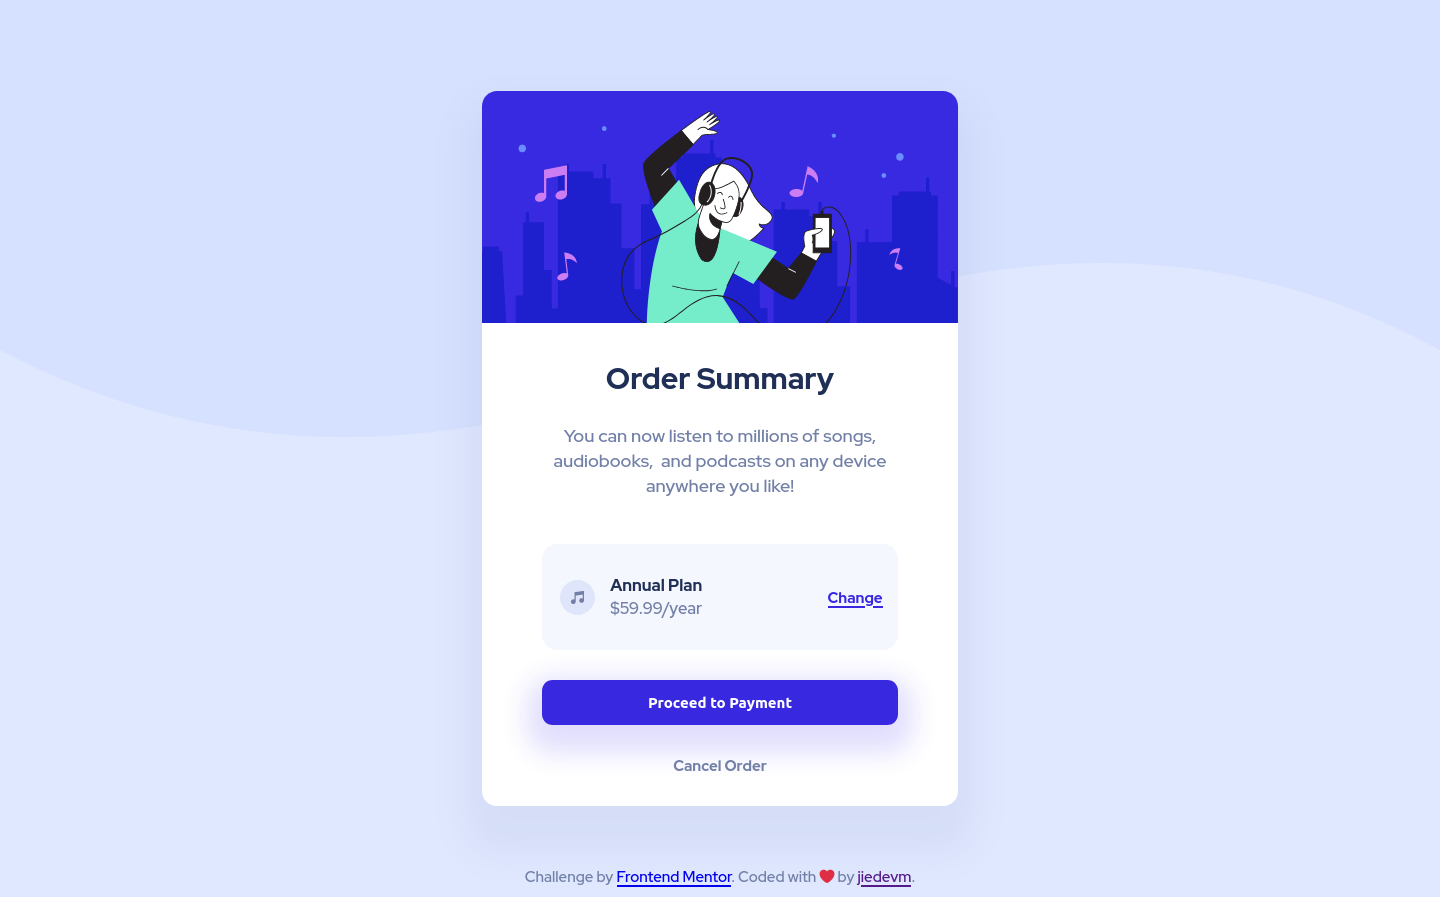
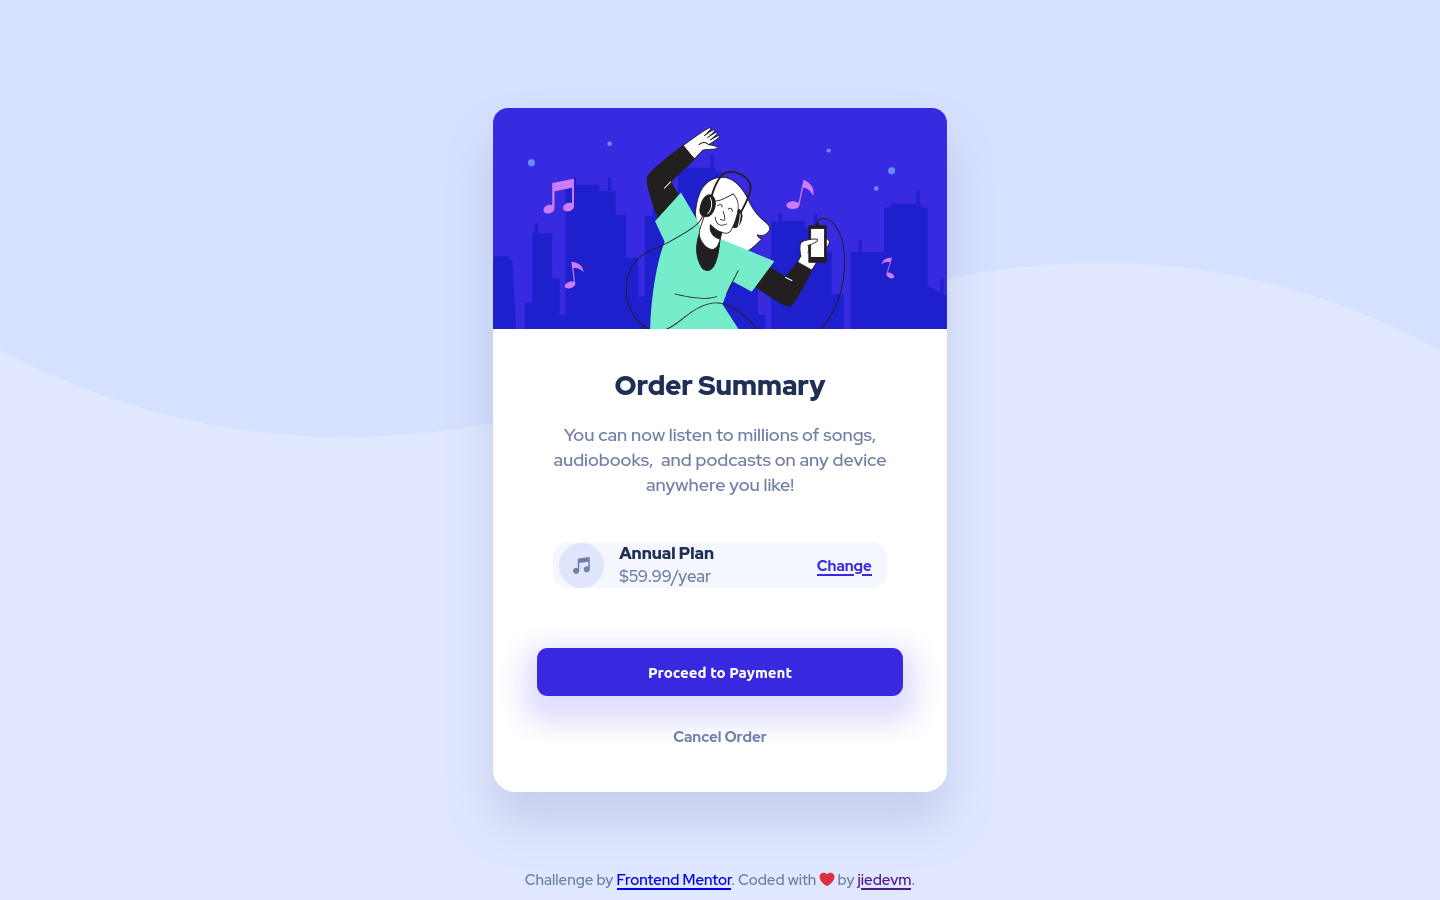
display (size, padding and margin) fixings

diff --git a/index.css b/index.css
@@ -29,6 +29,7 @@ body {
     display: flex;
     justify-content: center;
     align-items: center;
+    flex-direction: column;
 }
 
 body::before {
@@ -45,12 +46,12 @@ body::before {
 }
 
 .card {
-    border-radius: 1rem;
+    border-radius: 1.5rem;
     background: white;
-    width: 33%;
+    width: 31.5%;
     position: relative;
-    -webkit-box-shadow: 0 30px 35px 15px rgba(0, 128, 114, 176.1);
-    box-shadow: 0 30px 35px 15px rgba(114, 128, 176,0.1);
+    -webkit-box-shadow: 0 30px 45px 0 rgba(114, 128, 176, 0.25);
+    box-shadow: 0 30px 45px 0 rgba(114, 128, 176, 0.25);
 }
 
 .card-body {
@@ -68,8 +69,9 @@ body::before {
 
 .card-title {
     color: var(--dark-blue);
-    font-size: 2rem;
-    margin: 0.5em 0;
+    font-size: 1.8rem;
+    font-weight: 900;
+    text-align: center;
 }
 
 .card-text {
@@ -77,17 +79,17 @@ body::before {
     color: var(--desaturated-blue);
     font-weight: lighter;
     font-size: 1.2rem;
-    margin: 0.5em 0;
+    margin: 0;
 }
 
 .card-body #plan {
     display: grid;
     grid-template-columns: 50% 50%;
     width: 100%;
-    margin-top: 2.5em;
+    margin: 3em 0;
     background-color: var(--very-pale-blue);
-    padding: 2em 0;
     border-radius: 1rem;
+    padding: 1.5em 1.5em;
 }
 
 #plan-price {
@@ -102,10 +104,11 @@ body::before {
     margin-left: 1em;
 }
 
-#plan-price div h6 {
+#plan-price div h2 {
     margin: 0;
     font-size: 1.1rem;
     color: var(--dark-blue);
+    font-weight: 800;
 }
 
 #plan-price div p {
@@ -125,8 +128,8 @@ body::before {
     text-align: end;
     display: inline-block;
     color: var(--bright-blue);
-    font-size: 1rem;
-    font-weight: bold;
+    font-size: 0.9rem;
+    font-weight: 700;
     margin: auto;
 }
 
@@ -140,22 +143,24 @@ body::before {
     display: flex;
     align-items: center;
     flex-direction: column;
+    margin: 1em 0;
 }
 
 #actions button {
-    width: 100%;
-    height: 3em;
+    width: 110%;
+    height: 3.2em;
     display: block;
     border-radius: 0.7rem;
     color: white;
     background-color: var(--bright-blue);
     font-size: 1rem;
-    font-weight: bold;
+    font-weight: 700;
     border-width: 0;
-    margin: 2em 0;
+    margin-bottom: 2em;
     cursor: pointer;
     -webkit-box-shadow: 0 13px 25px 15px rgba(56, 41, 244, 0.15);
     box-shadow: 0 13px 25px 15px rgba(56, 41, 244, 0.15);
+    padding: 0 1em;
 }
 
 #actions a {
@@ -170,9 +175,10 @@ body::before {
 }
 
 .attribution {
-    position: absolute;
-    bottom: 10px;
+    position: relative;
     color: var(--desaturated-blue);
+    text-align: center;
+    margin: 2em;
 }
 
 @media (max-width: 1200px) {
@@ -207,7 +213,7 @@ body::before {
         font-size: 1rem;
     }
 
-    #plan-price div p, #plan-price div h6 {
+    #plan-price div p, #plan-price div h2 {
         font-size: 1rem;
     }
 
@@ -230,15 +236,27 @@ body::before {
         margin: 0 1.5em;
     }
 
+    .card-body {
+        padding: 1em 2.5em 2em;
+    }
+
     .card-title {
-        font-size: 1.1rem;
+        font-size: 1.5rem;
     }
 
     .card-text {
         font-size: 0.85rem;
     }
 
-    #plan-price div p, #plan-price div h6 {
+    #plan #plan-price {
+        width: 125%;
+    }
+
+    #plan div a {
+        font-size: 0.8rem;
+    }
+
+    #plan-price div p, #plan-price div h2 {
         font-size: 0.9rem;
     }
 

diff --git a/index.html b/index.html
@@ -2,15 +2,14 @@
 <html lang="en">
 <head>
     <meta charset="UTF-8">
-    <meta name="viewport"
-          content="width=device-width, user-scalable=no, initial-scale=1.0, maximum-scale=1.0, minimum-scale=1.0">
+    <meta name="viewport" content="width=device-width, initial-scale=1.0">
     <meta http-equiv="X-UA-Compatible" content="ie=edge">
     <title>Order summary card - Frontend Mentor</title>
     <link rel="icon" type="image/png" href="images/favicon-32x32.png"/>
     <link rel="stylesheet" href="index.css">
 </head>
 <body>
-    <div class="card">
+    <main class="card">
         <img class="card-hero" src="images/illustration-hero.svg" alt="plan">
         <div class="card-body">
             <h1 class="card-title">Order Summary</h1>
@@ -18,28 +17,28 @@
                 You can now listen to millions of songs, audiobooks,
                 &nbsp;and podcasts on any device anywhere you like!
             </p>
-            <section id="plan">
+            <div id="plan">
                 <div id="plan-price">
-                    <img src="images/icon-music.svg" alt="plan" width="35" height="35">
+                    <img src="images/icon-music.svg" alt="plan" width="50" height="50">
                     <div>
-                        <h6>Annual Plan</h6>
+                        <h2>Annual Plan</h2>
                         <p>$59.99/year</p>
                     </div>
                 </div>
                 <div id="link">
                     <a href="#" class="hover">Change</a>
                 </div>
-            </section>
-            <section id="actions">
+            </div>
+            <div id="actions">
                 <button type="button" class="hover">Proceed to Payment</button>
                 <a href="#" class="hover">Cancel Order</a>
-            </section>
+            </div>
         </div>
 
-    </div>
-    <div class="attribution">
+    </main>
+    <footer class="attribution">
         Challenge by <a href="https://www.frontendmentor.io?ref=challenge" target="_blank">Frontend Mentor</a>.
         Coded with ❤ by <a href="https://github.com/dieudonneallognon">jiedevm</a>.
-    </div>
+    </footer>
 </body>
 </html>
